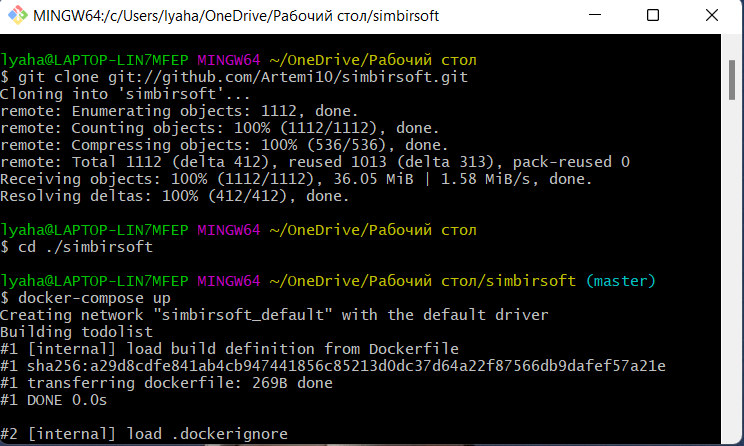
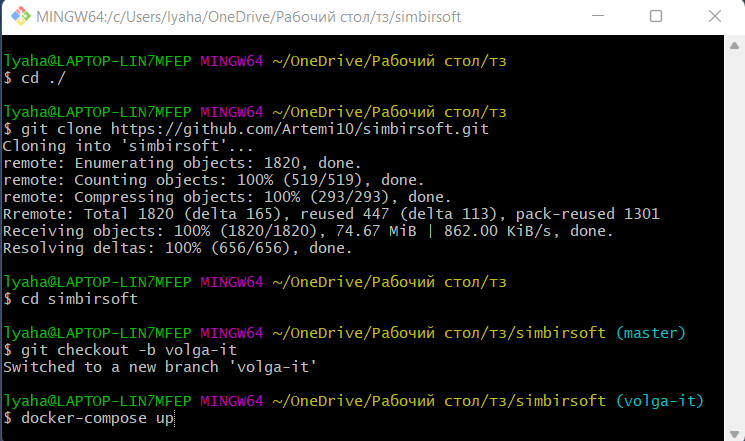
update deploying part

Changed region(s): [[0.0, 0.0, 1.0, 1.0], [0.0, 0.0, 0.9583, 0.0884]]

diff --git a/README.md b/README.md
@@ -1,4 +1,4 @@
-# Devanmejia ToDoList
+# Devanmejia ApplicationsList
 >Simple CRUD Spring Boot project
 
 ![Logo](src/main/resources/static/images/logo.png "Project Logo")
@@ -11,8 +11,8 @@
 * [Contact](#contact)
 
 ## General Info
-- Application allows authorized users to create, store, update and delete private apps.
-- Users can easily manage their own apps.
+- Application allows authorized users to create, store, update and delete information about applications.
+- Users can easily manage their own applications.
 
 ## Technologies Used
 - Java 17
@@ -32,13 +32,15 @@
 - Log in to user account with/without remember me token.
 - Password recovery by sending resetting letter to user email.
 - Log out from application.
-- CRUD operations with apps.
+- CRUD operations with applications.
 
 ## Deployment
 - Download git project
-> git clone git://github.com/Artemi10/simbirsoft.git
+> git clone https://github.com/Artemi10/simbirsoft.git
 - Enter to project directory
 > cd ./simbirsoft
+- Chose volga-it branch
+> git checkout -b volga-it
 - Start docker engine
 - Run docker-compose command
 > docker-compose up
